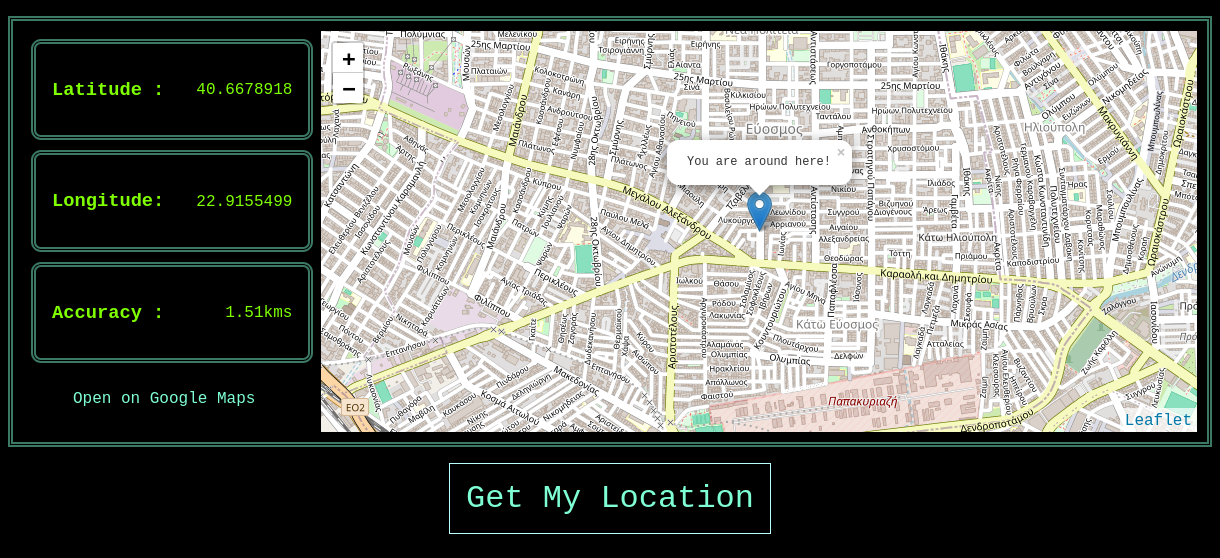
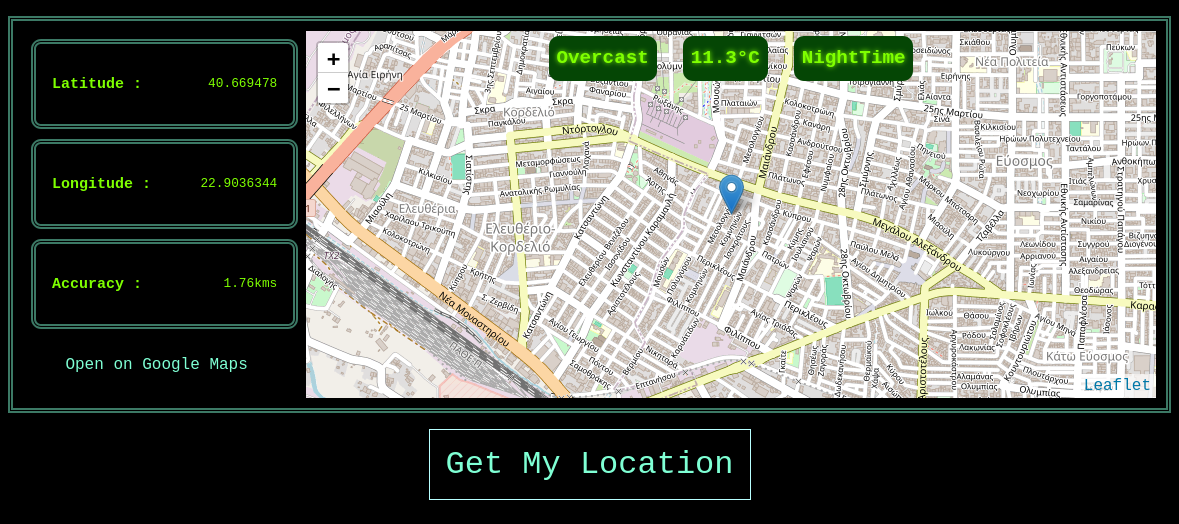
Added current weather conditions of your location

diff --git a/week17/WebAPISExerc/geolocation/script.js b/week17/WebAPISExerc/geolocation/script.js
@@ -5,6 +5,9 @@ const longEl = document.getElementById("long")
 const accEl = document.getElementById("acc")
 const errorEl = document.getElementById("error")
 const gMaps = document.getElementById("gMaps")
+const locationWeatherEl = document.getElementById("locationWeather");
+const locationTempEl = document.getElementById("locationTemp");
+const locationDayEl = document.getElementById("locationDay")
 const options = {
     enableHighAccuracy: true,
     timeout: 10000,
@@ -12,6 +15,36 @@ const options = {
 };
 let map;
 const mapInfo = document.getElementById("mapInfo")
+const weatherDescriptions = {
+    0: "Clear",
+    1: "Clear",
+    2: "Cloudy",
+    3: "Overcast",
+    45: "Fog",
+    48: "Fog",
+    51: "Drizzle",
+    53: "Drizzle",
+    55: "Drizzle",
+    56: "FreezingDrizzle",
+    57: "FreezingDrizzle",
+    61: "Rain",
+    63: "Rain",
+    65: "Rain",
+    66: "FreezingRain",
+    67: "FreezingRain",
+    71: "Snow",
+    73: "Snow",
+    75: "Snow",
+    77: "SnowGrains",
+    80: "Showers",
+    81: "Showers",
+    82: "Showers",
+    85: "SnowShowers",
+    86: "SnowShowers",
+    95: "Thunderstorm",
+    96: "Thunderstorm",
+    99: "Thunderstorm"
+};
 
 function getLocation() {
     btn.textContent = "Loading..."
@@ -23,11 +56,34 @@ function getLocation() {
     }
     navigator.geolocation.getCurrentPosition(success, error, options);
 
+
 }
+async function getWeather(lat,long) {
+    const weatherURL = `https://api.open-meteo.com/v1/forecast?latitude=${lat}&longitude=${long}&hourly=temperature_2m&current=temperature_2m,is_day,weather_code`;
+    fetch(weatherURL)
+    .then(response => response.json())
+    .then(data => {
+        console.log(data);
+        // Current Temperature
+        const currentTemp = data.current.temperature_2m;
+        const tempUnit = data.current_units.temperature_2m;
+        locationTempEl.textContent = `${currentTemp}${tempUnit}`
 
+        // Is Day
+        const isDayTime = data.current.is_day>0
+        locationDayEl.textContent = isDayTime ? "Daytime" : "NightTime"
+
+        const weatherCode = data.current.weather_code
+        const currentWeather = weatherDescriptions[weatherCode]
+        locationWeatherEl.textContent = currentWeather;
+        
+    })
+        
+}
 function success(position) {
+    
     let coords = position.coords
-
+    console.log(position)
     console.log(coords)
     latEl.innerHTML = `${coords.latitude}`;
     longEl.innerHTML = `${coords.longitude}`;
@@ -36,24 +92,27 @@ function success(position) {
     btn.disabled = false;
     gMaps.innerHTML = `<a href="https://www.google.com/maps/place/${coords.latitude}+${coords.longitude}" target="_blank">Open on Google Maps</a>`
     console.log(`https://www.google.com/maps/place/${coords.latitude}+${coords.longitude}`)
+    getWeather(coords.latitude,coords.longitude)
     // Leaflet free - No API key - Found this ready, not my code
     if (!map) {
+        console.log(`${coords.latitude } + ${coords.longitude}`)
         map = L.map('map').setView([coords.latitude, coords.longitude], 15);
         L.tileLayer('https://{s}.tile.openstreetmap.org/{z}/{x}/{y}.png').addTo(map);
     } else {
         map.setView([coords.latitude, coords.longitude], 15);
     }
     L.marker([coords.latitude, coords.longitude]).addTo(map)
-        .bindPopup('You are around here!')
-        .openPopup();
+        // .bindPopup('You are around here!')
+        // .openPopup();
 
 }
 
 function error() {
     errorEl.innerHTML = "Sorry, no position available.";
-    btn.textContent = "Try again";
+    btn.textContent = "Get My Location";
     btn.disabled = false;
 }
 btn.addEventListener('click', () => {
     getLocation();
 })
+

diff --git a/week17/WebAPISExerc/geolocation/style.css b/week17/WebAPISExerc/geolocation/style.css
@@ -7,6 +7,7 @@ html {
 }
 
 #map {
+    position: relative;
     height: 100%;
     width: 100%;
     background-color: rgb(77, 77, 77);
@@ -35,13 +36,14 @@ html {
 }
 .card {
     border: 5px double rgba(127, 255, 212, 0.473);
+    font-size: 0.8rem;
     border-radius: 10px;
     padding: 1rem;
     display: flex;
     align-items: center;
     gap: 2rem;
     justify-content: space-between;
-
+   
     &:hover {
         background-color: chartreuse;
         color: #000;
@@ -71,7 +73,7 @@ a{
     font-size: 1rem;
     &:hover{
         color: chartreuse;
-
+        text-shadow: 0px 0px 5px chartreuse;
     }
 }
 .controls{
@@ -92,4 +94,28 @@ a{
         color: #000;
         cursor: pointer;
     }
+}
+.weather-info{
+    position: absolute;
+    width: 90%;
+    
+    border-radius: 10px;
+    top: 0px;
+    left: 50%;
+    transform: translateX(-50%);
+    
+    z-index: 999;
+    display: flex;
+    justify-content: center;
+    gap: 1rem;
+}
+.info-car{
+    background-color: rgb(5, 70, 5);
+    color: chartreuse;
+    font-size: 1.2rem;
+    font-weight: 900;
+    text-shadow: 0px 0px 5px chartreuse;
+    padding: 0.5rem;
+    margin: 5px;
+    border-radius: 10px;
 }

diff --git a/week17/WebAPISExerc/geolocation/index.html b/week17/WebAPISExerc/geolocation/index.html
@@ -20,7 +20,7 @@
                 <p id="lat">0</p>
             </div>
             <div class="card">
-                <h3>Longitude:</h3>
+                <h3>Longitude :</h3>
                 <p id="long">0</p>
             </div>
             <div class="card">
@@ -33,6 +33,13 @@
             
         </div>
         <div id="map">
+            <div id="weather-info" class="weather-info">
+                
+                <div class="info-car" id="locationWeather">_</div>
+                <div class="info-car" id="locationTemp">_</div>
+                <div class="info-car" id="locationDay">_</div>
+
+            </div>
             <p class="mapInfo" id="mapInfo">No Location Requested</p>
         </div>
         
